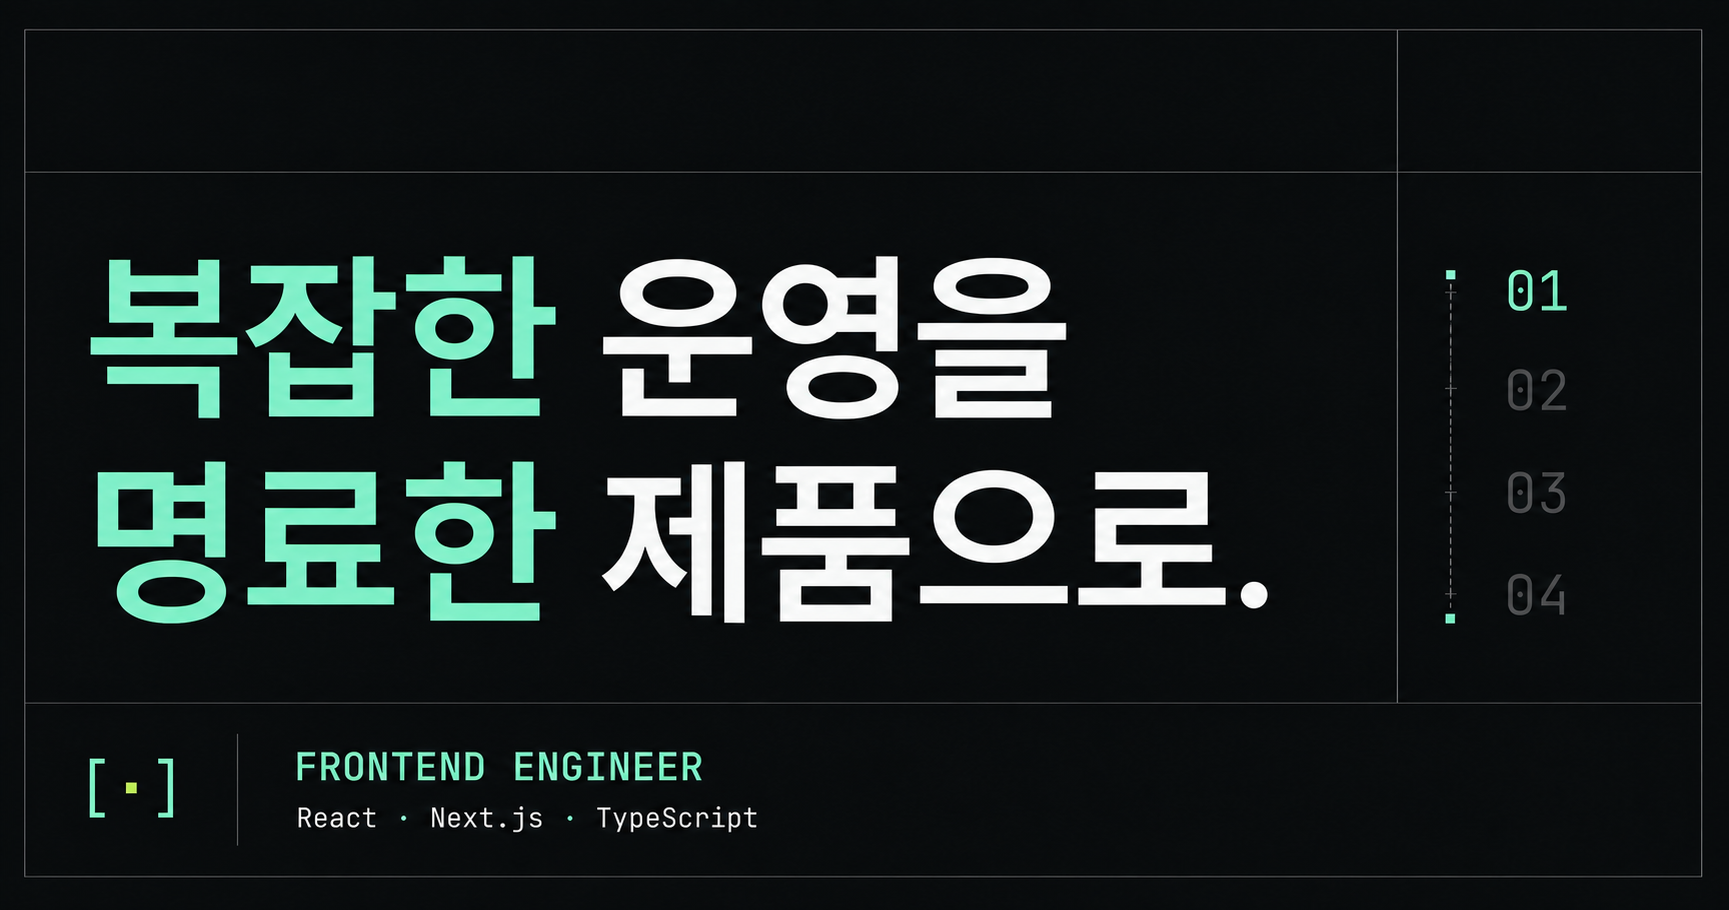
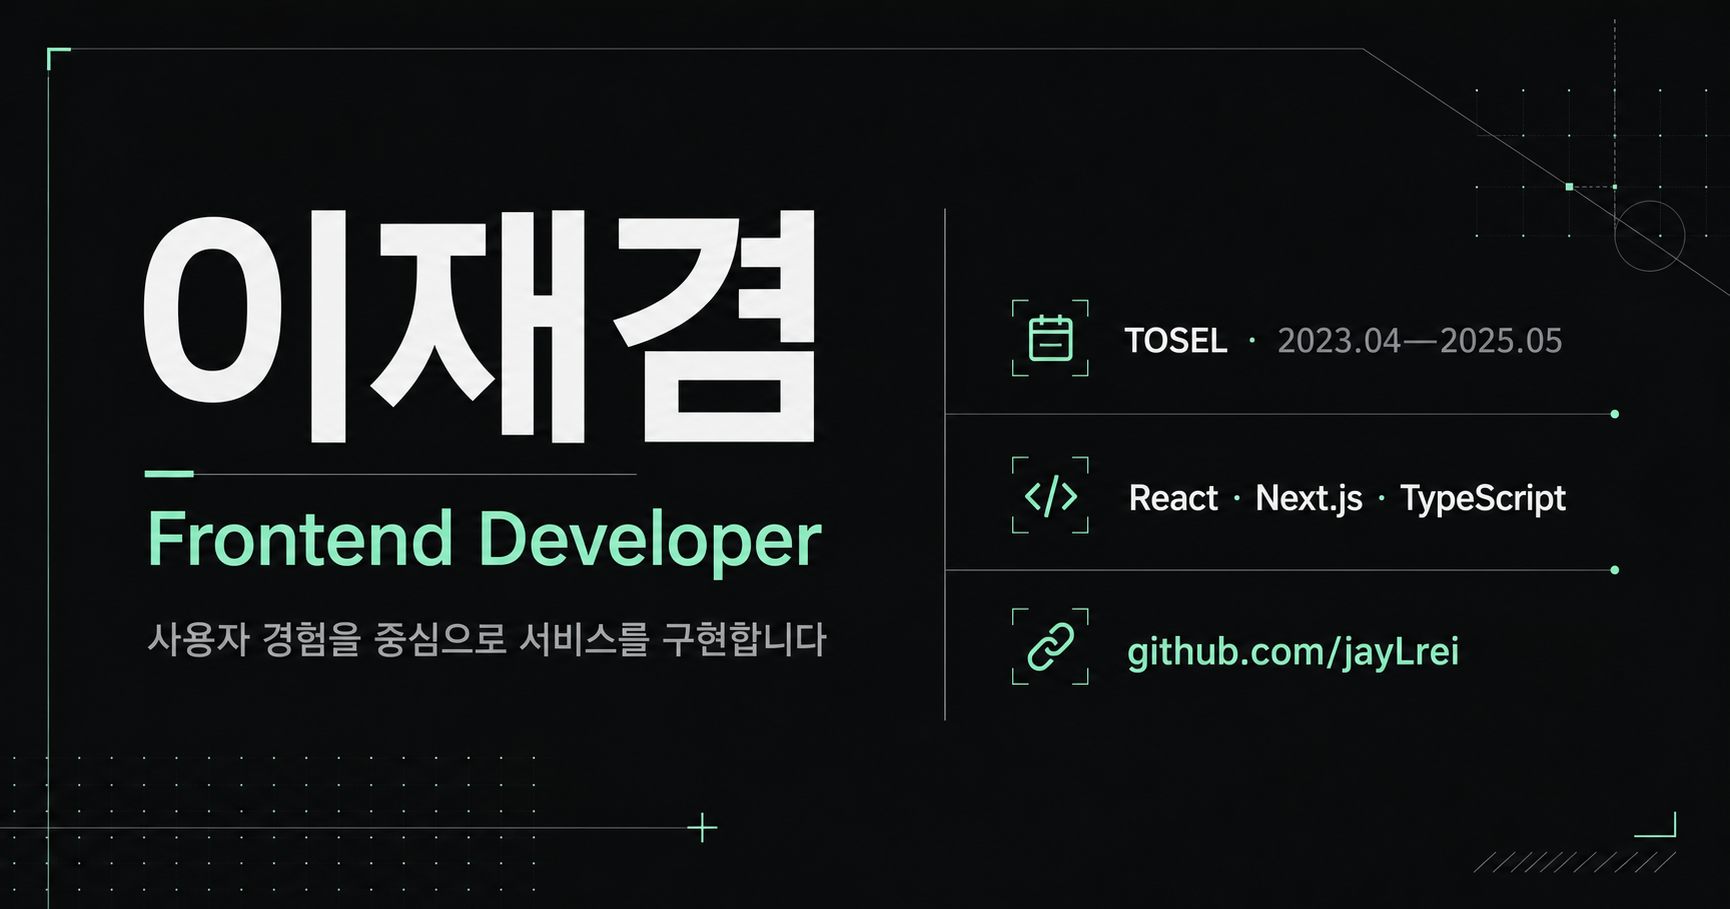
Refine portfolio introduction and profile details

diff --git a/app/page.tsx b/app/page.tsx
@@ -99,7 +99,7 @@ export default function Home() {
     <main>
       <header className="site-header">
         <a className="brand" href="#top" aria-label="페이지 상단으로 이동">
-          <span className="status-dot" /> FE.PORTFOLIO / 2026
+          <span className="status-dot" /> LEE JAEGYEOM / PORTFOLIO
         </a>
         <nav aria-label="주요 메뉴">
           <a href="#projects">PROJECTS</a>
@@ -109,21 +109,30 @@ export default function Home() {
 
       <section className="hero" id="top">
         <div className="hero-copy">
-          <p className="eyebrow">// FRONTEND ENGINEER · EDU TOSEL</p>
+          <p className="eyebrow">// FRONTEND DEVELOPER · LEE JAEGYEOM</p>
           <h1>
-            복잡한 운영을
-            <br />
-            <em>명료한 제품</em>으로.
+            이재겸
+            <small>Frontend Developer</small>
           </h1>
           <p className="intro">
-            에듀토셀에서 프론트엔드 개발자로 근무하며 사내 ERP부터 결제,
-            학습 서비스, 디자인 시스템까지 비즈니스의 문제를 사용 가능한
-            인터페이스로 전환했습니다.
+            사용자 경험을 중심에 두고, 복잡한 요구사항을 누구나 편리하게
+            사용할 수 있는 서비스로 구현하는 프론트엔드 개발자입니다.
+            에듀토셀에서 ERP, 결제, 학습 서비스와 디자인 시스템을 개발했습니다.
           </p>
-          <div className="hero-meta" aria-label="핵심 역량">
+          <div className="profile-links" aria-label="연락처 및 프로필">
+            <a href="mailto:thfpdhk1@gmail.com">
+              <span>EMAIL</span>
+              <strong>thfpdhk1@gmail.com</strong>
+            </a>
+            <a href="https://github.com/jayLrei" target="_blank" rel="noreferrer">
+              <span>GITHUB</span>
+              <strong>github.com/jayLrei ↗</strong>
+            </a>
+          </div>
+          <div className="hero-meta" aria-label="경력 및 핵심 기술">
+            <div><span>EXPERIENCE</span><strong>TOSEL · 2023.04—2025.05</strong></div>
             <div><span>CORE STACK</span><strong>React · Next.js</strong></div>
             <div><span>LANGUAGE</span><strong>TypeScript</strong></div>
-            <div><span>FOCUS</span><strong>Product Engineering</strong></div>
           </div>
         </div>
 
@@ -181,8 +190,9 @@ export default function Home() {
       </section>
 
       <footer id="about">
-        <p>FRONTEND ENGINEER</p>
-        <p>React · Next.js · TypeScript</p>
+        <p>이재겸 · FRONTEND DEVELOPER</p>
+        <a href="mailto:thfpdhk1@gmail.com">thfpdhk1@gmail.com</a>
+        <a href="https://github.com/jayLrei" target="_blank" rel="noreferrer">GITHUB ↗</a>
         <a href="#top">BACK TO TOP ↑</a>
       </footer>
     </main>

diff --git a/app/globals.css b/app/globals.css
@@ -40,10 +40,15 @@ nav a:hover, nav a:focus-visible { color: var(--mint); }
 .hero { min-height: calc(100vh - 82px); display: grid; grid-template-columns: 1.1fr .9fr; }
 .hero-copy { padding: clamp(74px, 8vw, 126px) 8vw 38px 4px; border-right: 1px solid var(--line); display: flex; flex-direction: column; }
 .eyebrow, .section-label { margin: 0; color: var(--mint); font: 600 12px/1.4 var(--font-geist-mono), monospace; letter-spacing: .12em; }
-h1 { margin: 28px 0 34px; font-size: clamp(54px, 5.8vw, 92px); line-height: 1.04; letter-spacing: -.065em; font-weight: 700; }
-h1 em { color: var(--mint); font-style: normal; }
+h1 { margin: 28px 0 34px; font-size: clamp(46px, 4.3vw, 68px); line-height: 1.04; letter-spacing: -.055em; font-weight: 700; }
+h1 small { display: block; margin-top: 17px; color: var(--mint); font: 550 clamp(18px, 1.65vw, 25px)/1.2 var(--font-geist-mono), monospace; letter-spacing: -.03em; }
 .intro { max-width: 650px; margin: 0; color: #c7ceca; font-size: clamp(16px, 1.25vw, 20px); line-height: 1.85; word-break: keep-all; }
-.hero-meta { margin-top: auto; display: grid; grid-template-columns: repeat(3, 1fr); gap: 20px; padding-top: 52px; border-top: 1px solid var(--line); }
+.profile-links { display: flex; flex-wrap: wrap; gap: 12px 30px; margin-top: 34px; }
+.profile-links a { display: flex; align-items: baseline; gap: 10px; border-bottom: 1px solid #415149; padding-bottom: 5px; transition: color .2s ease, border-color .2s ease; }
+.profile-links a:hover, .profile-links a:focus-visible { color: var(--mint); border-color: var(--mint); }
+.profile-links span { color: #6f7773; font: 500 9px/1 var(--font-geist-mono), monospace; letter-spacing: .12em; }
+.profile-links strong { font: 500 12px/1.4 var(--font-geist-mono), monospace; }
+.hero-meta { margin-top: auto; display: grid; grid-template-columns: 1.35fr 1fr .8fr; gap: 20px; padding-top: 42px; border-top: 1px solid var(--line); }
 .hero-meta div { display: flex; flex-direction: column; gap: 10px; }
 .hero-meta span { color: #6f7773; font: 500 10px/1 var(--font-geist-mono), monospace; letter-spacing: .12em; }
 .hero-meta strong { font: 500 13px/1.4 var(--font-geist-mono), monospace; }
@@ -100,8 +105,9 @@ footer a { color: var(--mint); }
   nav { gap: 16px; }
   nav a:last-child { display: none; }
   .hero-copy { min-height: 670px; padding-top: 70px; }
-  h1 { font-size: clamp(46px, 14vw, 65px); }
+  h1 { font-size: clamp(42px, 12vw, 54px); }
   .intro { font-size: 15px; }
+  .profile-links { align-items: flex-start; flex-direction: column; }
   .hero-meta { grid-template-columns: 1fr 1fr; }
   .hero-meta div:last-child { grid-column: 1 / -1; }
   .project-index a { grid-template-columns: 36px 1fr 18px; }

diff --git a/app/layout.tsx b/app/layout.tsx
@@ -18,8 +18,8 @@ export async function generateMetadata(): Promise<Metadata> {
   const host = requestHeaders.get("x-forwarded-host") ?? requestHeaders.get("host") ?? "localhost:3000";
   const protocol = requestHeaders.get("x-forwarded-proto") ?? (host.startsWith("localhost") ? "http" : "https");
   const origin = `${protocol}://${host}`;
-  const title = "Frontend Engineer | Career Portfolio";
-  const description = "에듀토셀 프론트엔드 개발자의 프로젝트와 성과를 소개합니다.";
+  const title = "이재겸 | Frontend Developer";
+  const description = "사용자 경험을 중심으로 서비스를 구현하는 프론트엔드 개발자 이재겸의 경력 포트폴리오입니다.";
 
   return {
     title,
@@ -30,7 +30,7 @@ export async function generateMetadata(): Promise<Metadata> {
       description,
       type: "website",
       url: origin,
-      images: [{ url: `${origin}/og.png`, width: 1200, height: 630, alt: "복잡한 운영을 명료한 제품으로" }],
+      images: [{ url: `${origin}/og.png`, width: 1200, height: 630, alt: "이재겸 프론트엔드 개발자 포트폴리오" }],
     },
     twitter: {
       card: "summary_large_image",
